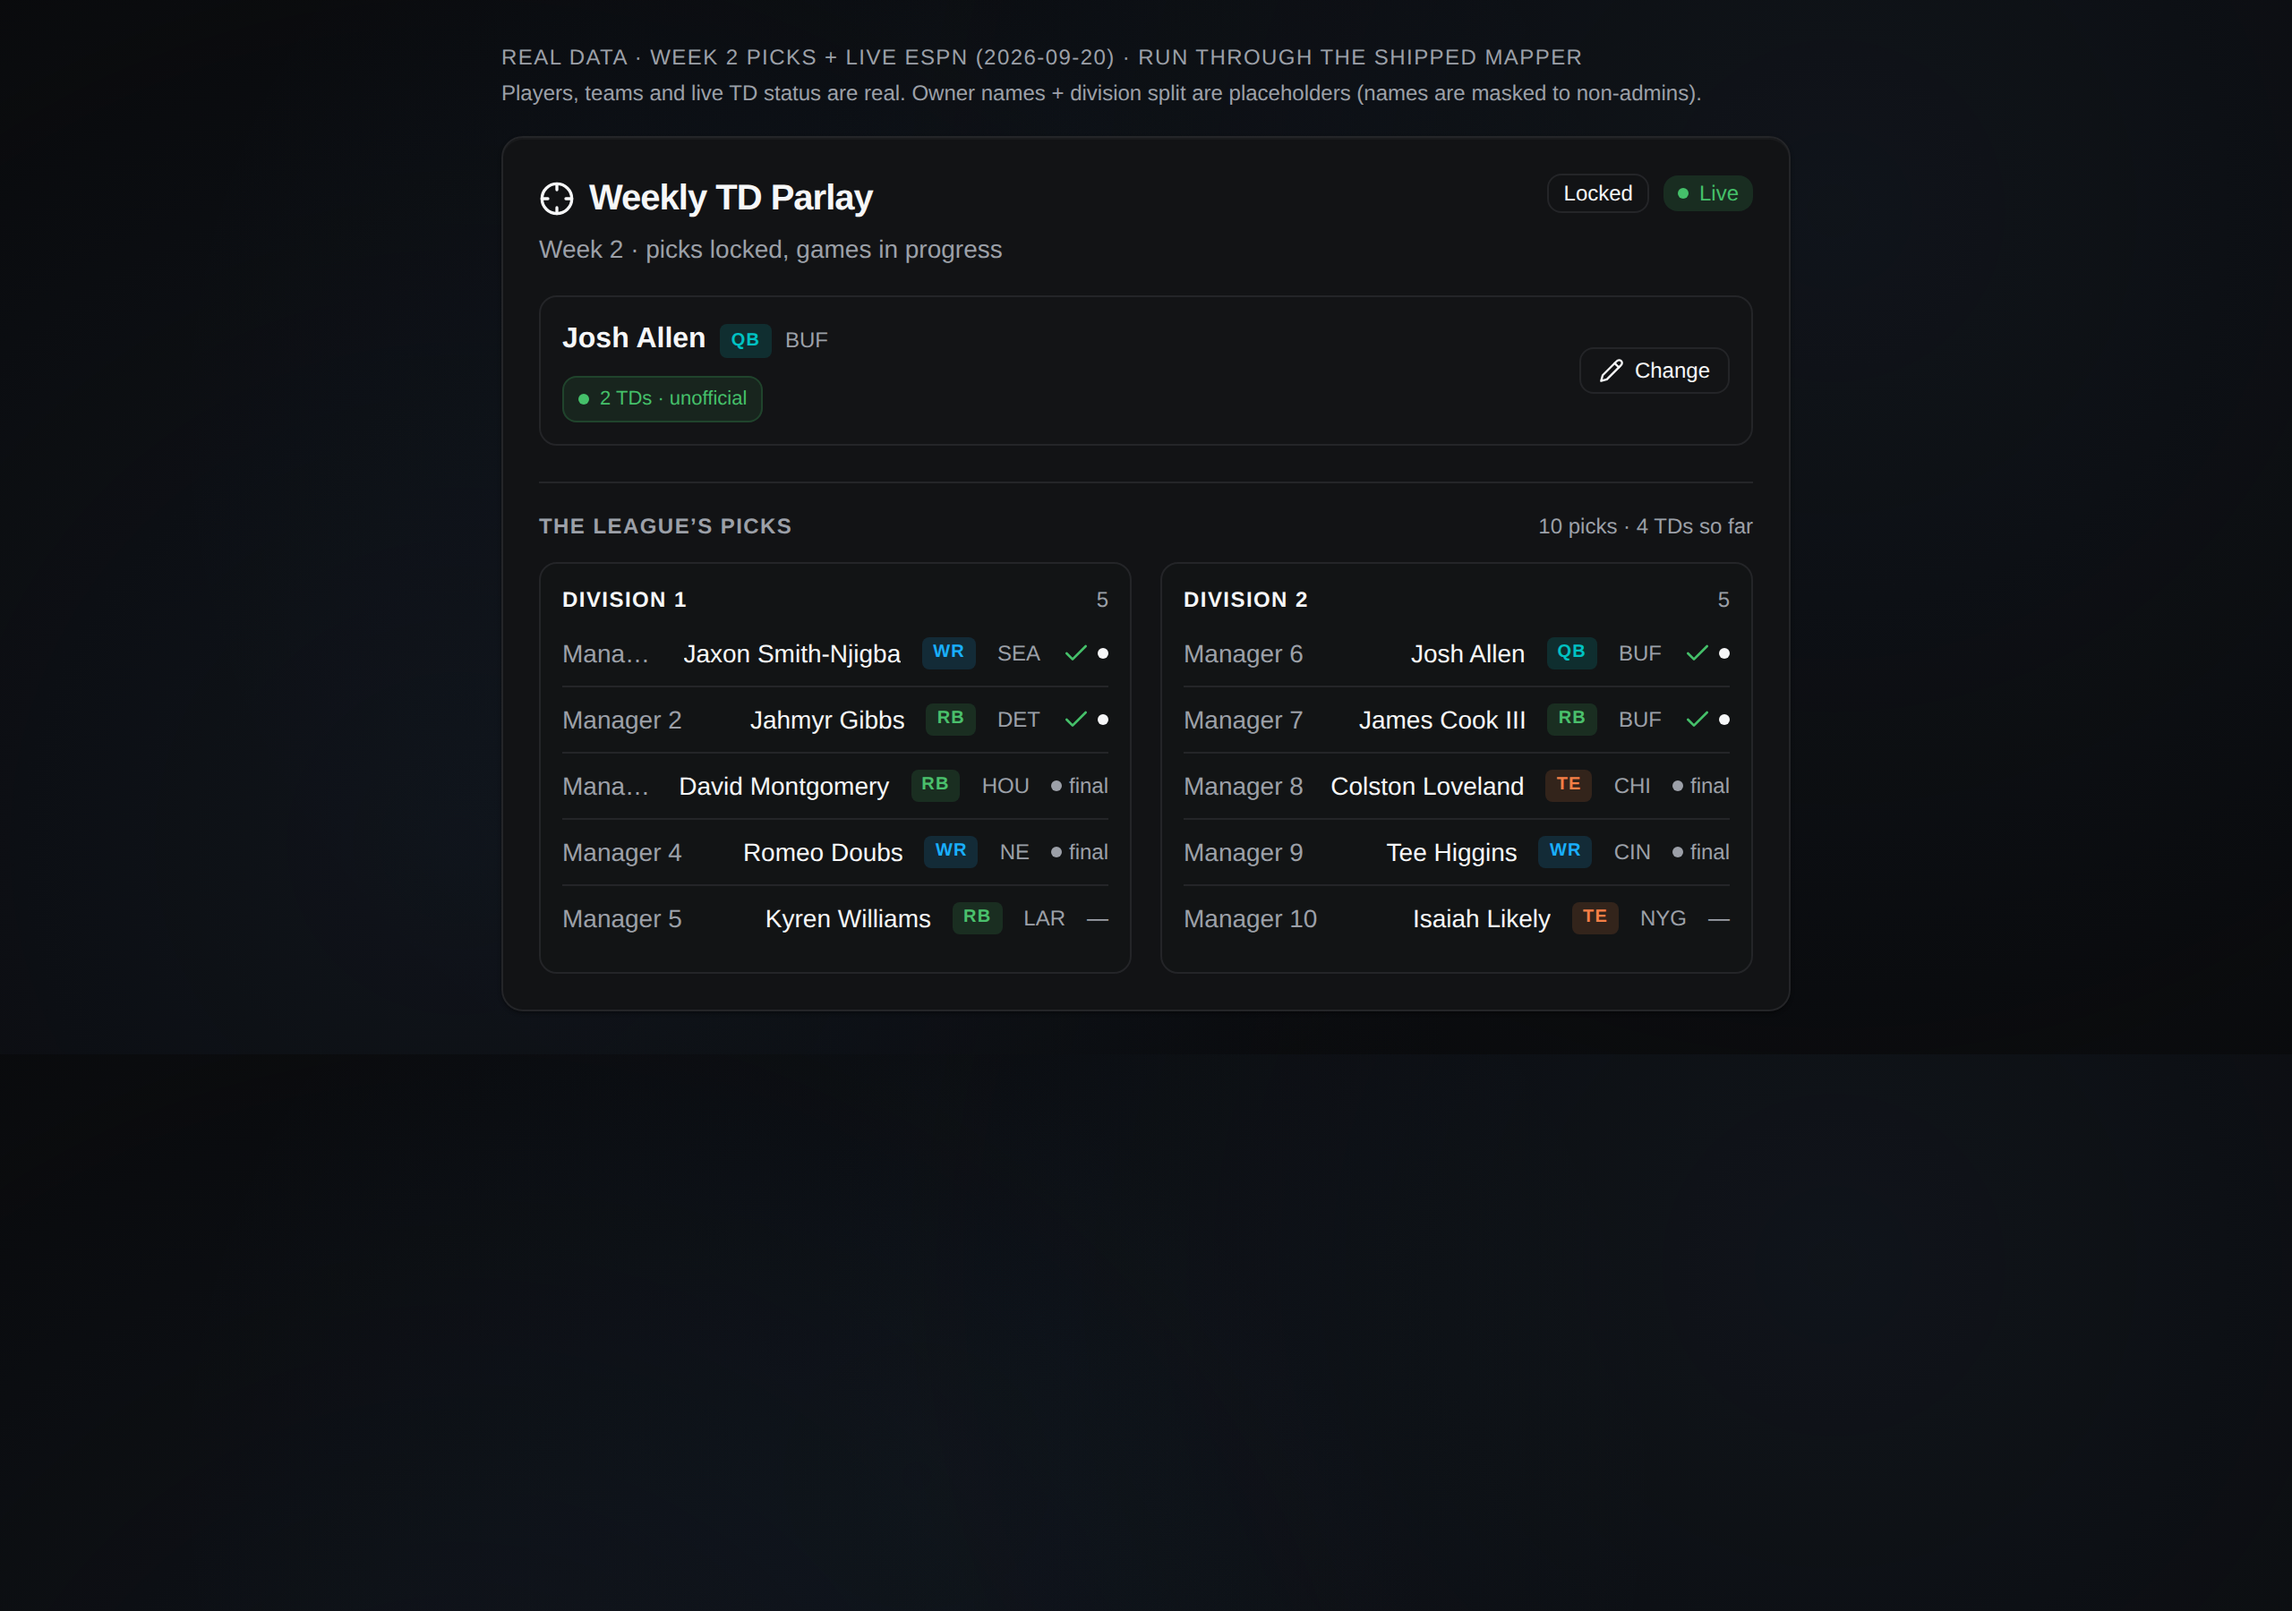
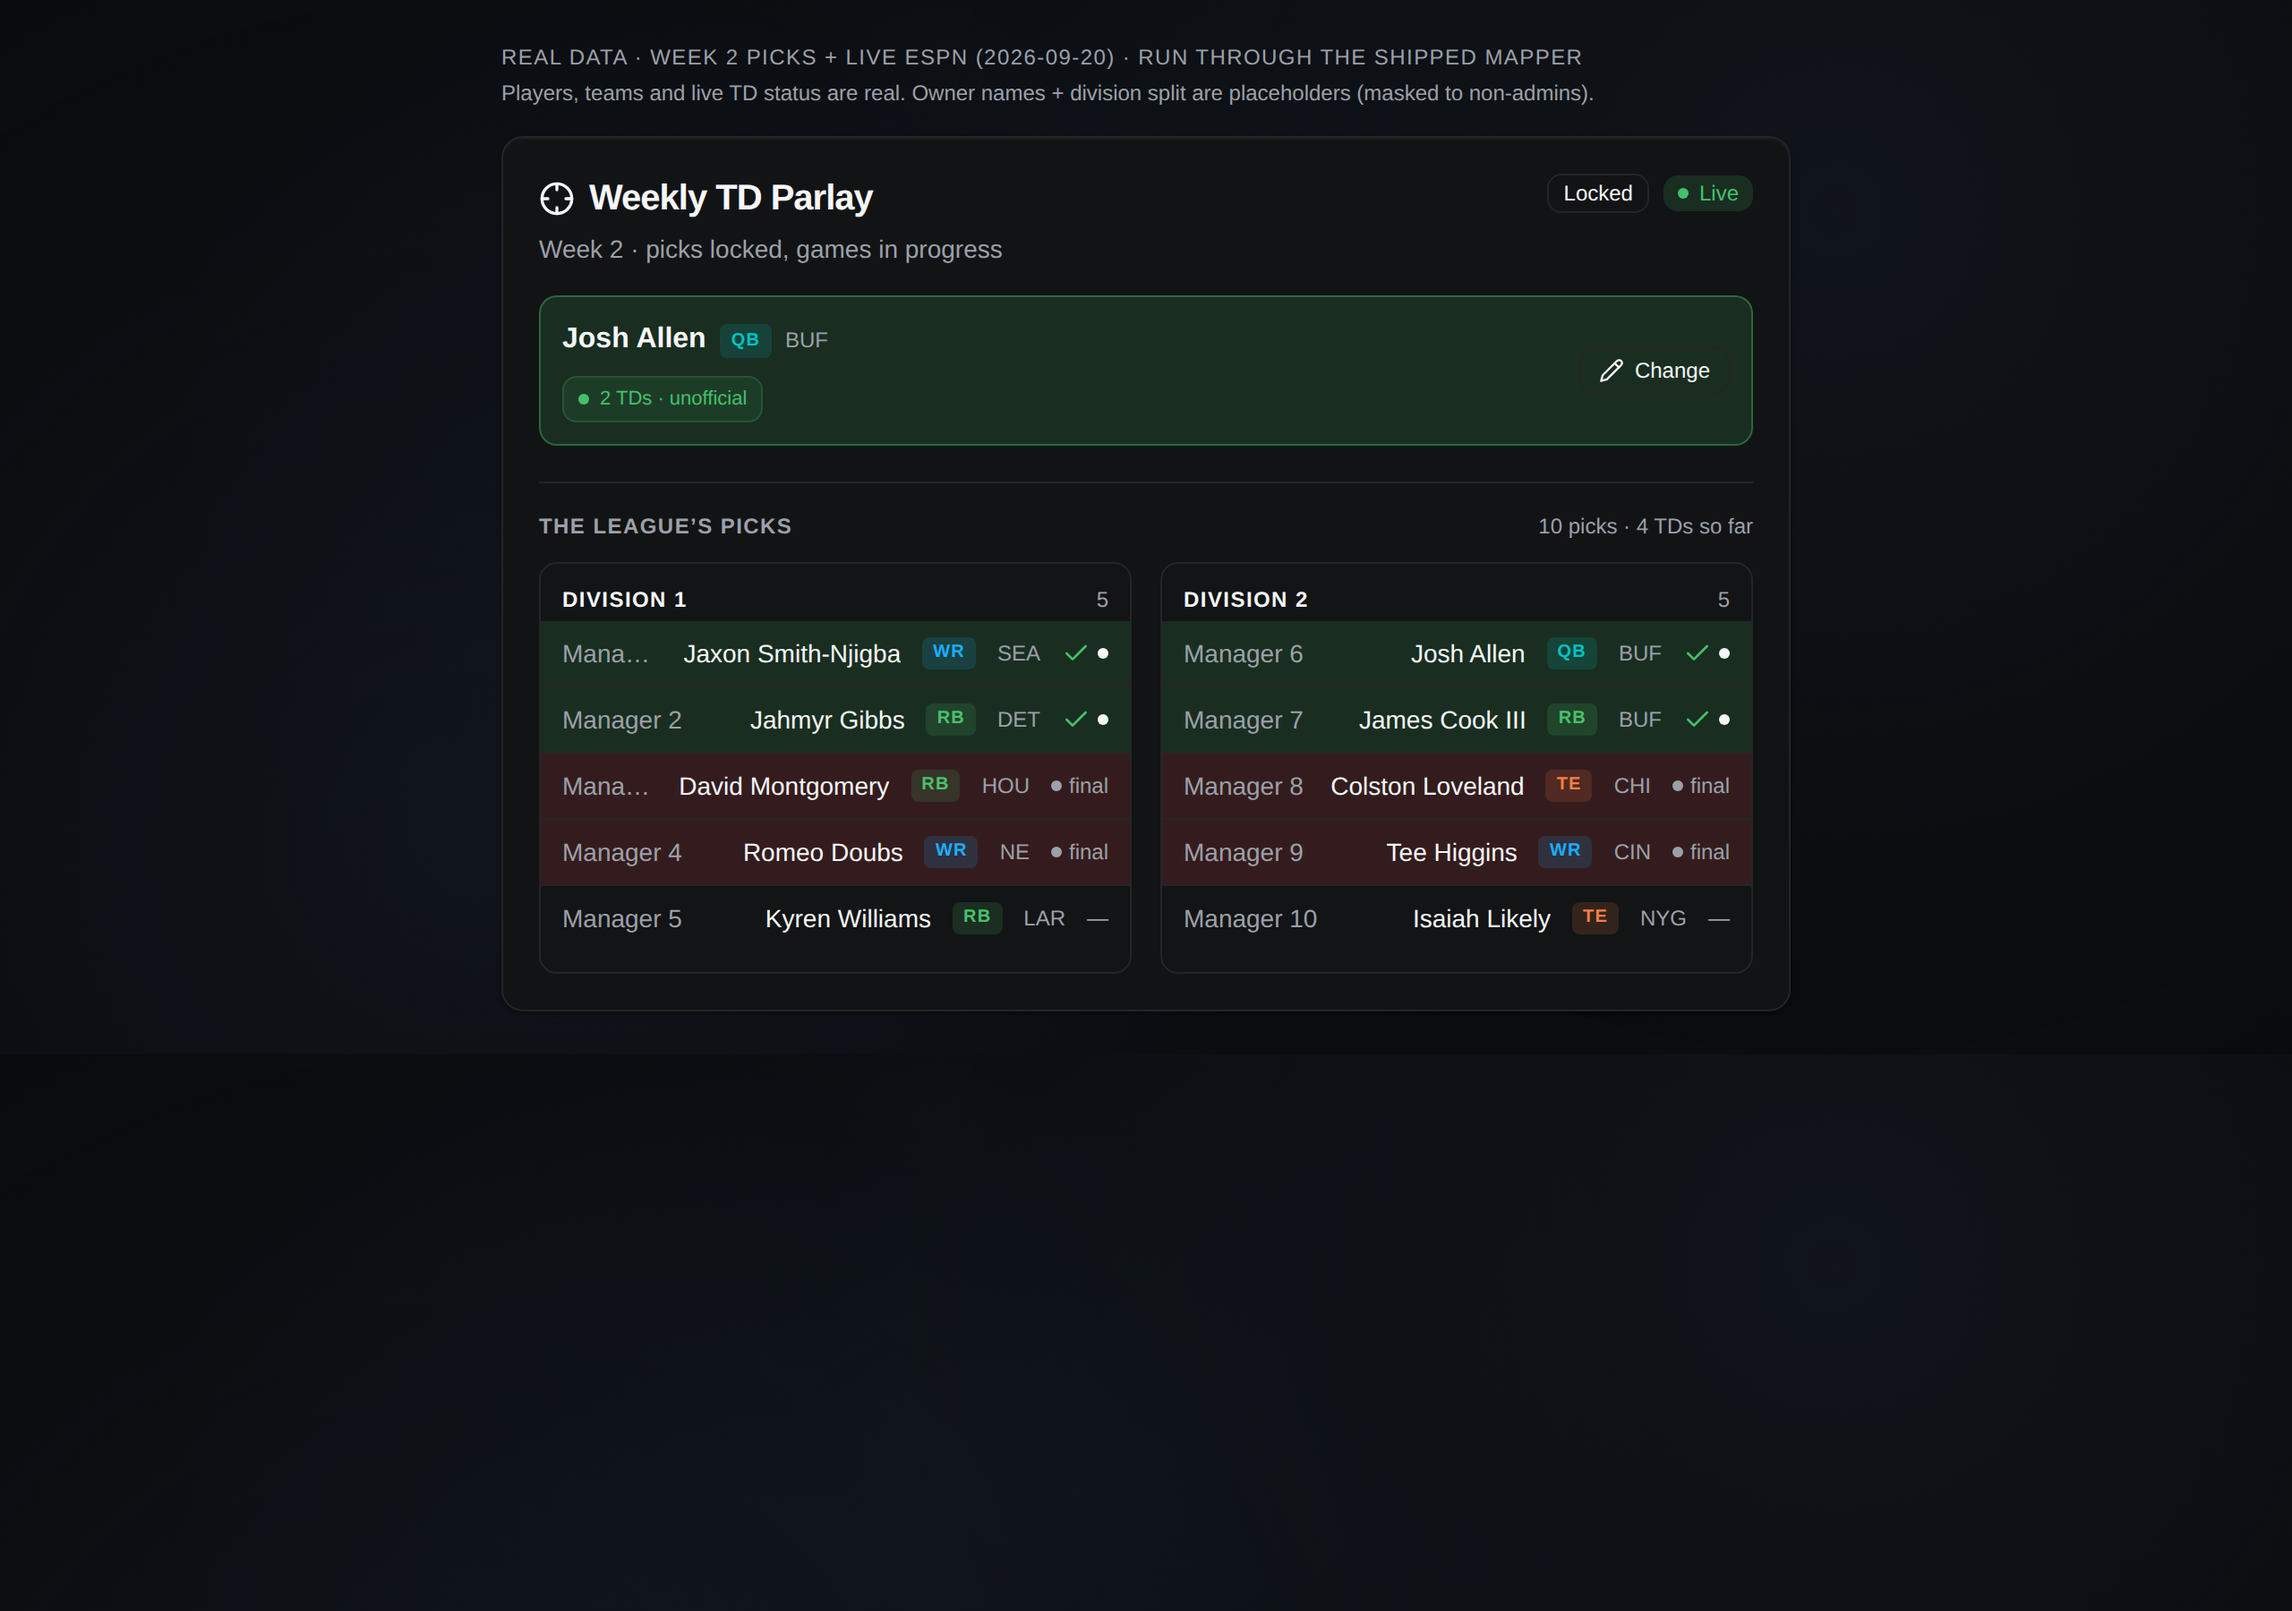
Fill the whole parlay row green/red when a pick is decided
An icon at the end of the row was easy to miss. Now the entire row (and the
member's own pick card) fills success green once a TD is on the board and
destructive red once the game is final with none — a far faster read down a
column of picks.

Outcome is decided by `pickOutcome`: a hit the moment a TD lands (live or
official — a touchdown cannot be un-scored), a miss only when it is settled
that none came (an official false, or a game gone final with no TD). Picks
still in progress with no TD yet, not started, or on a bye stay neutral, so a
row never turns red on a pick that can still hit. The official grade continues
to drive the trailing badge; the fill just makes the same outcome legible at a
glance.

`pickOutcome` lives in its own pure module so the indicator's .jsx keeps
exporting only components (react-refresh). Screenshots refreshed to match.

Claude-Session: https://claude.ai/code/session_01PzDU7d2xcPpfw3o42TQGCR

Changed region(s): [[0.2188, 0.3733, 0.7812, 0.56], [0.2188, 0.1556, 0.7812, 0.28], [0.5938, 0.0311, 0.7188, 0.0622]]

diff --git a/src/components/pickems/ParlayPickSection.jsx b/src/components/pickems/ParlayPickSection.jsx
@@ -25,6 +25,7 @@ import { groupPicksByDivision } from '../../utils/parlayDivisions';
 import { getPositionColor } from '../../utils/positionColors';
 import { OpponentChip } from '../ui/opponent-chip';
 import { ParlayPickStatus } from './LiveTdIndicator.jsx';
+import { pickOutcome } from './liveTdOutcome.js';
 
 /**
  * The weekly TD parlay, at the foot of the pick'ems form.
@@ -219,8 +220,19 @@ const ParlayPickSection = ({ pickEmWeek, seasonYear = null, status, weekNumber }
 };
 
 /** The pick as stored, with its live status and, once graded, the final grade. */
-const CurrentPick = ({ pick, opponent, canEdit, onEdit, showGrade, live }) => (
-  <div className="flex flex-wrap items-center gap-3 rounded-lg border border-border bg-muted/30 p-3">
+const CurrentPick = ({ pick, opponent, canEdit, onEdit, showGrade, live }) => {
+  const outcome = pickOutcome({ scoredTd: pick.scoredTd, live });
+  return (
+  <div
+    className={cn(
+      'flex flex-wrap items-center gap-3 rounded-lg border p-3',
+      outcome === 'hit'
+        ? 'border-success/40 bg-success/15'
+        : outcome === 'miss'
+          ? 'border-destructive/40 bg-destructive/15'
+          : 'border-border bg-muted/30'
+    )}
+  >
     <div className="min-w-0 flex-1">
       <div className="flex flex-wrap items-center gap-2">
         <span className="truncate font-semibold">{pick.playerNameRaw}</span>
@@ -260,7 +272,8 @@ const CurrentPick = ({ pick, opponent, canEdit, onEdit, showGrade, live }) => (
       <Lock className="h-4 w-4 shrink-0 text-muted-foreground" aria-hidden="true" />
     )}
   </div>
-);
+  );
+};
 
 /**
  * Name entry: autocomplete over the synced `players` table, with the typed text
@@ -543,8 +556,22 @@ const DivisionColumn = ({ className, title, picks, showGrades, liveStatus, viewe
       <p className="py-2 text-sm text-muted-foreground">{emptyText}</p>
     ) : (
       <ul className="divide-y divide-border">
-        {picks.map((pick) => (
-          <li key={pick.id} className="flex flex-wrap items-center gap-x-3 gap-y-1 py-2 text-sm">
+        {picks.map((pick) => {
+          // The whole row goes green once a TD is on the board and red once the
+          // game is final with none — a faster read than the trailing icon
+          // alone. Undecided rows stay neutral (see `pickOutcome`). The
+          // negative margin lets the tint reach the column's padded edges so it
+          // reads as a filled row rather than an inset chip.
+          const outcome = pickOutcome({ scoredTd: pick.scoredTd, live: liveStatus?.[pick.id] });
+          return (
+          <li
+            key={pick.id}
+            className={cn(
+              'flex flex-wrap items-center gap-x-3 gap-y-1 py-2 text-sm',
+              outcome === 'hit' && '-mx-3 bg-success/15 px-3',
+              outcome === 'miss' && '-mx-3 bg-destructive/15 px-3'
+            )}
+          >
             <span className="min-w-0 flex-1 truncate text-muted-foreground">
               {getMaskedUserName(
                 pick.displayName,
@@ -576,7 +603,8 @@ const DivisionColumn = ({ className, title, picks, showGrades, liveStatus, viewe
               showPendingDash={showGrades}
             />
           </li>
-        ))}
+          );
+        })}
       </ul>
     )}
   </section>

diff --git a/src/components/pickems/liveTdOutcome.js b/src/components/pickems/liveTdOutcome.js
@@ -1,0 +1,27 @@
+/**
+ * Has a parlay pick hit, missed, or is it still undecided — the input to the
+ * board's row tinting. Kept as a pure module (not in the `.jsx`) so the
+ * indicator component file only exports components.
+ *
+ * `hit` the moment a TD is on the board (official or live — a touchdown cannot
+ * be un-scored); `miss` only once it is settled that none came (an official
+ * `false`, or a game gone final with no TD). Everything in between — in
+ * progress with no TD yet, not started, on a bye, or ungraded before kickoff —
+ * is `null`, so a row never turns red on a pick that can still hit.
+ */
+
+import { GAME_STATE } from '../../../services/espnLiveScoreMapper.js';
+
+/**
+ * @param {{ scoredTd: boolean|null, live?: { state: string, scored: boolean } }} args
+ * @returns {'hit'|'miss'|null}
+ */
+export function pickOutcome({ scoredTd, live }) {
+  if (scoredTd === true) return 'hit';
+  if (scoredTd === false) return 'miss';
+  if (live?.scored) return 'hit';
+  if (live?.state === GAME_STATE.FINAL) return 'miss';
+  return null;
+}
+
+export default pickOutcome;
